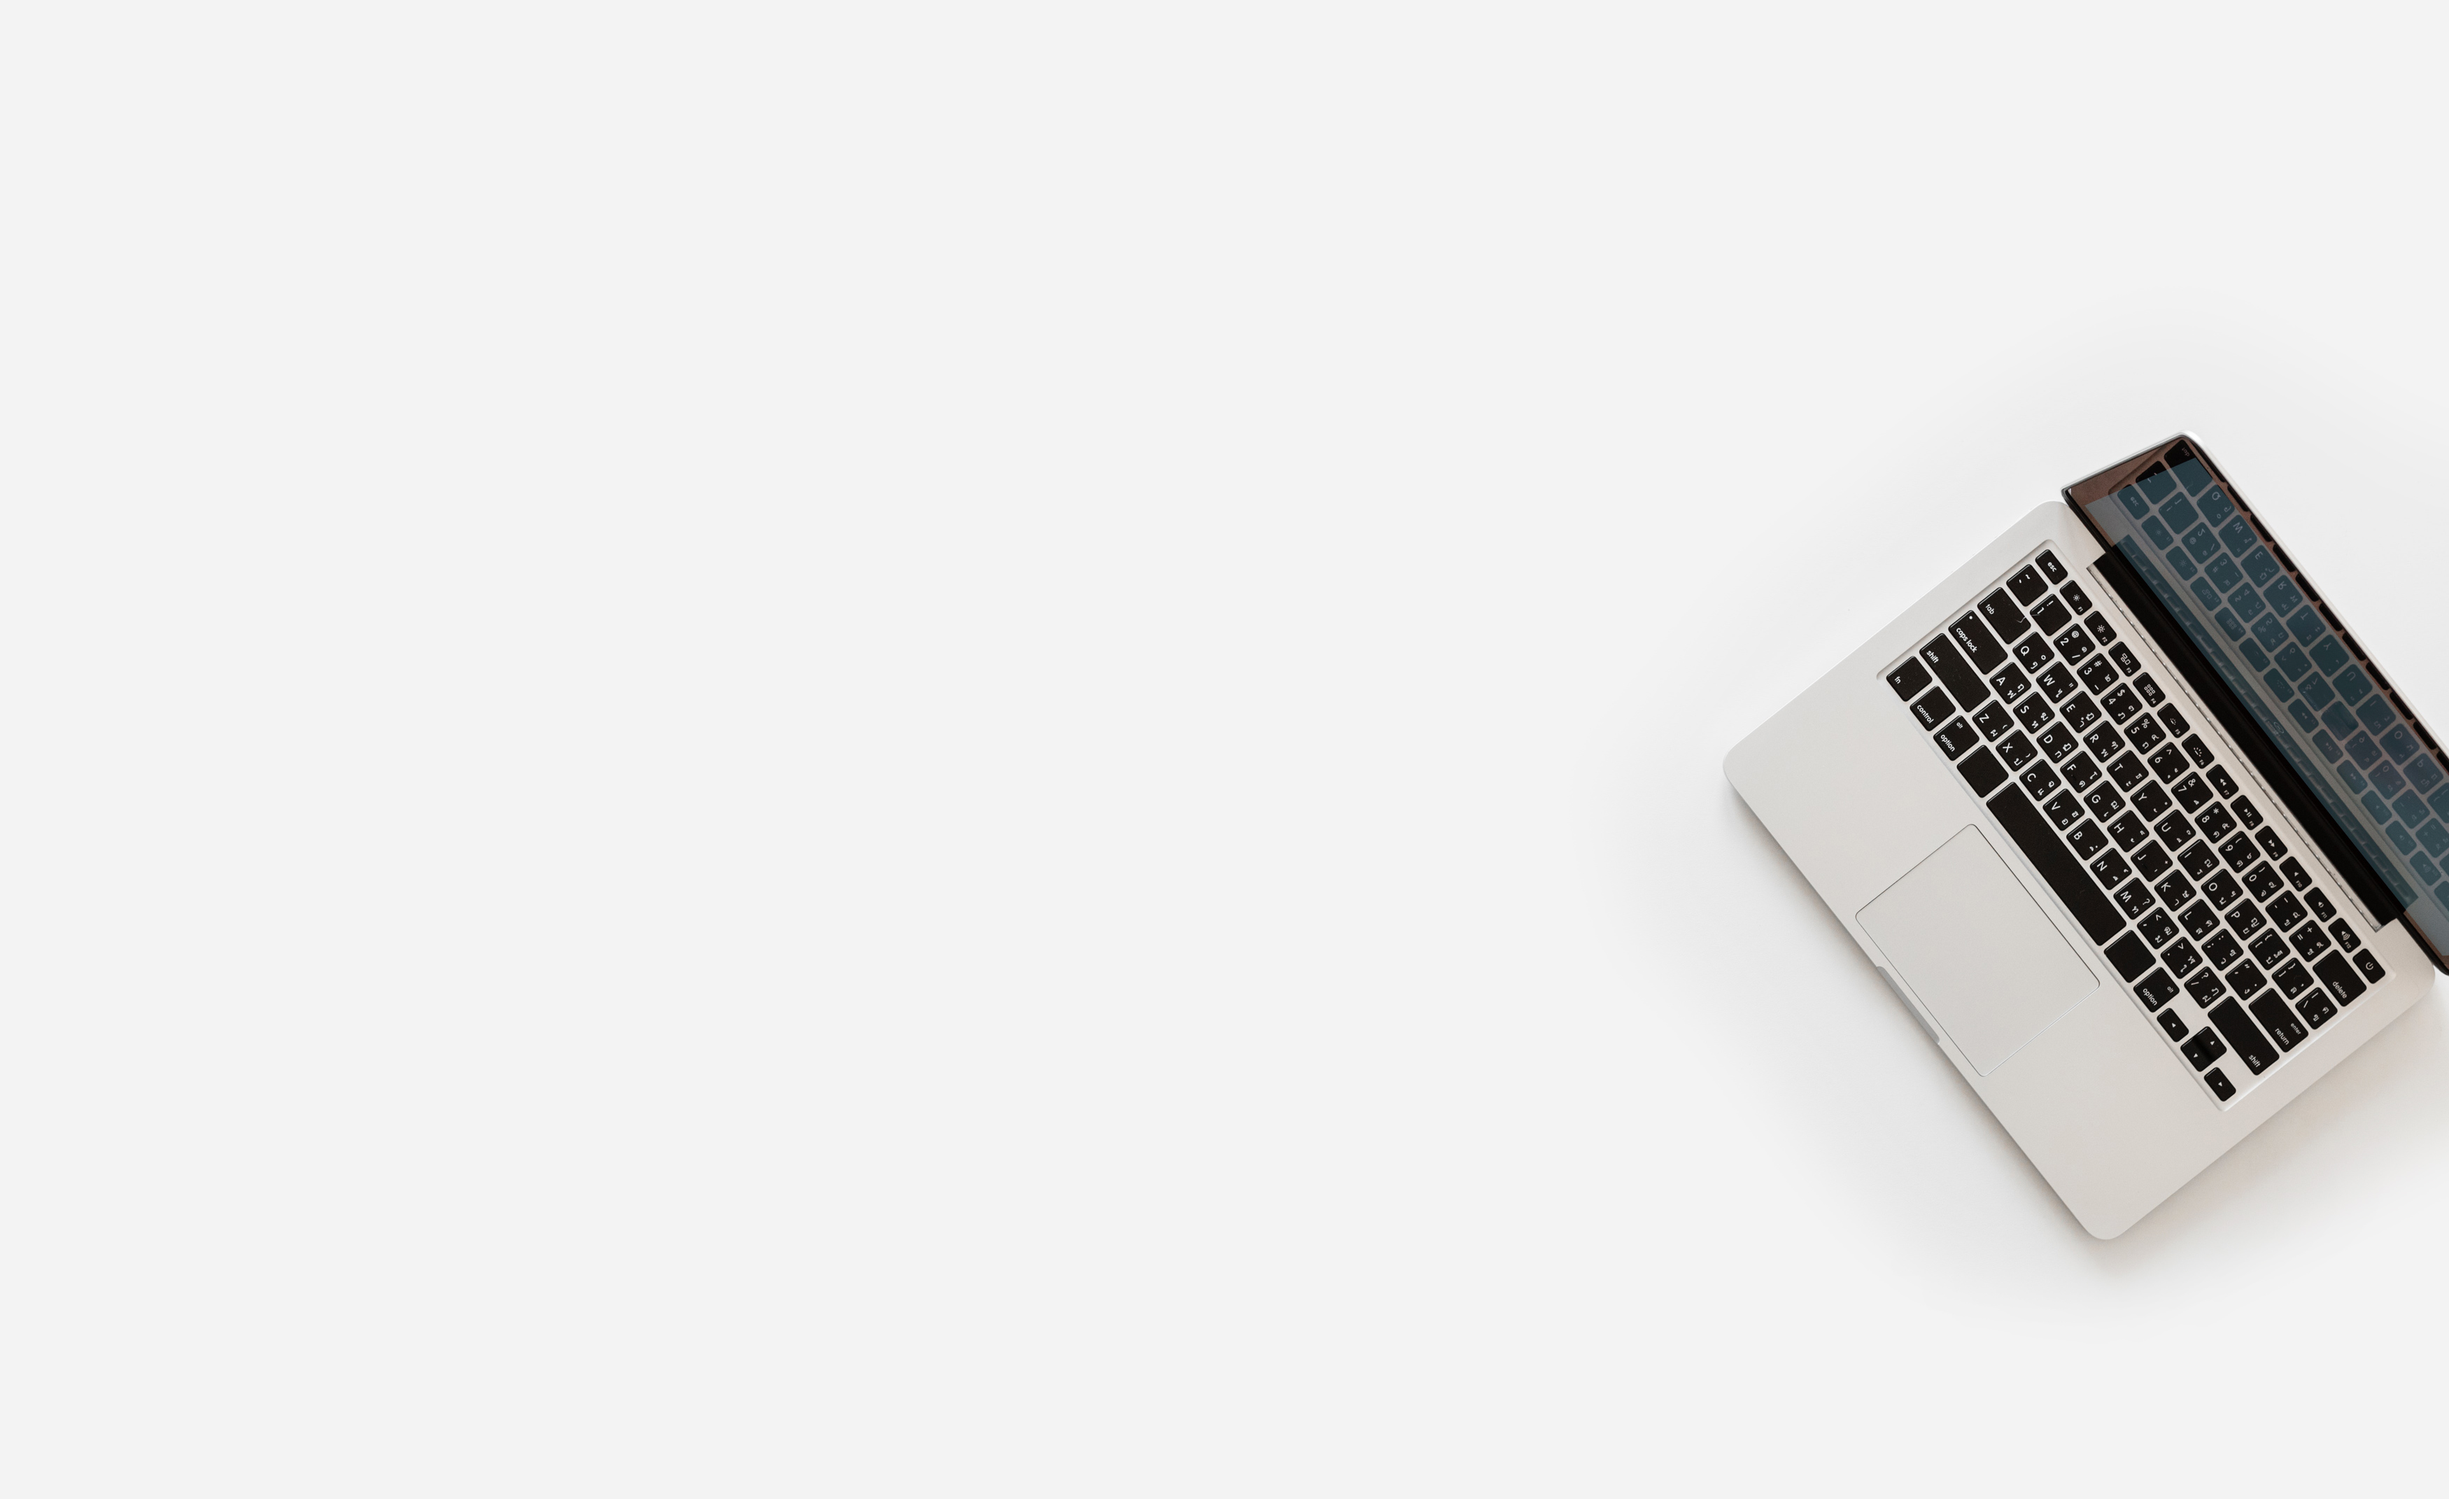
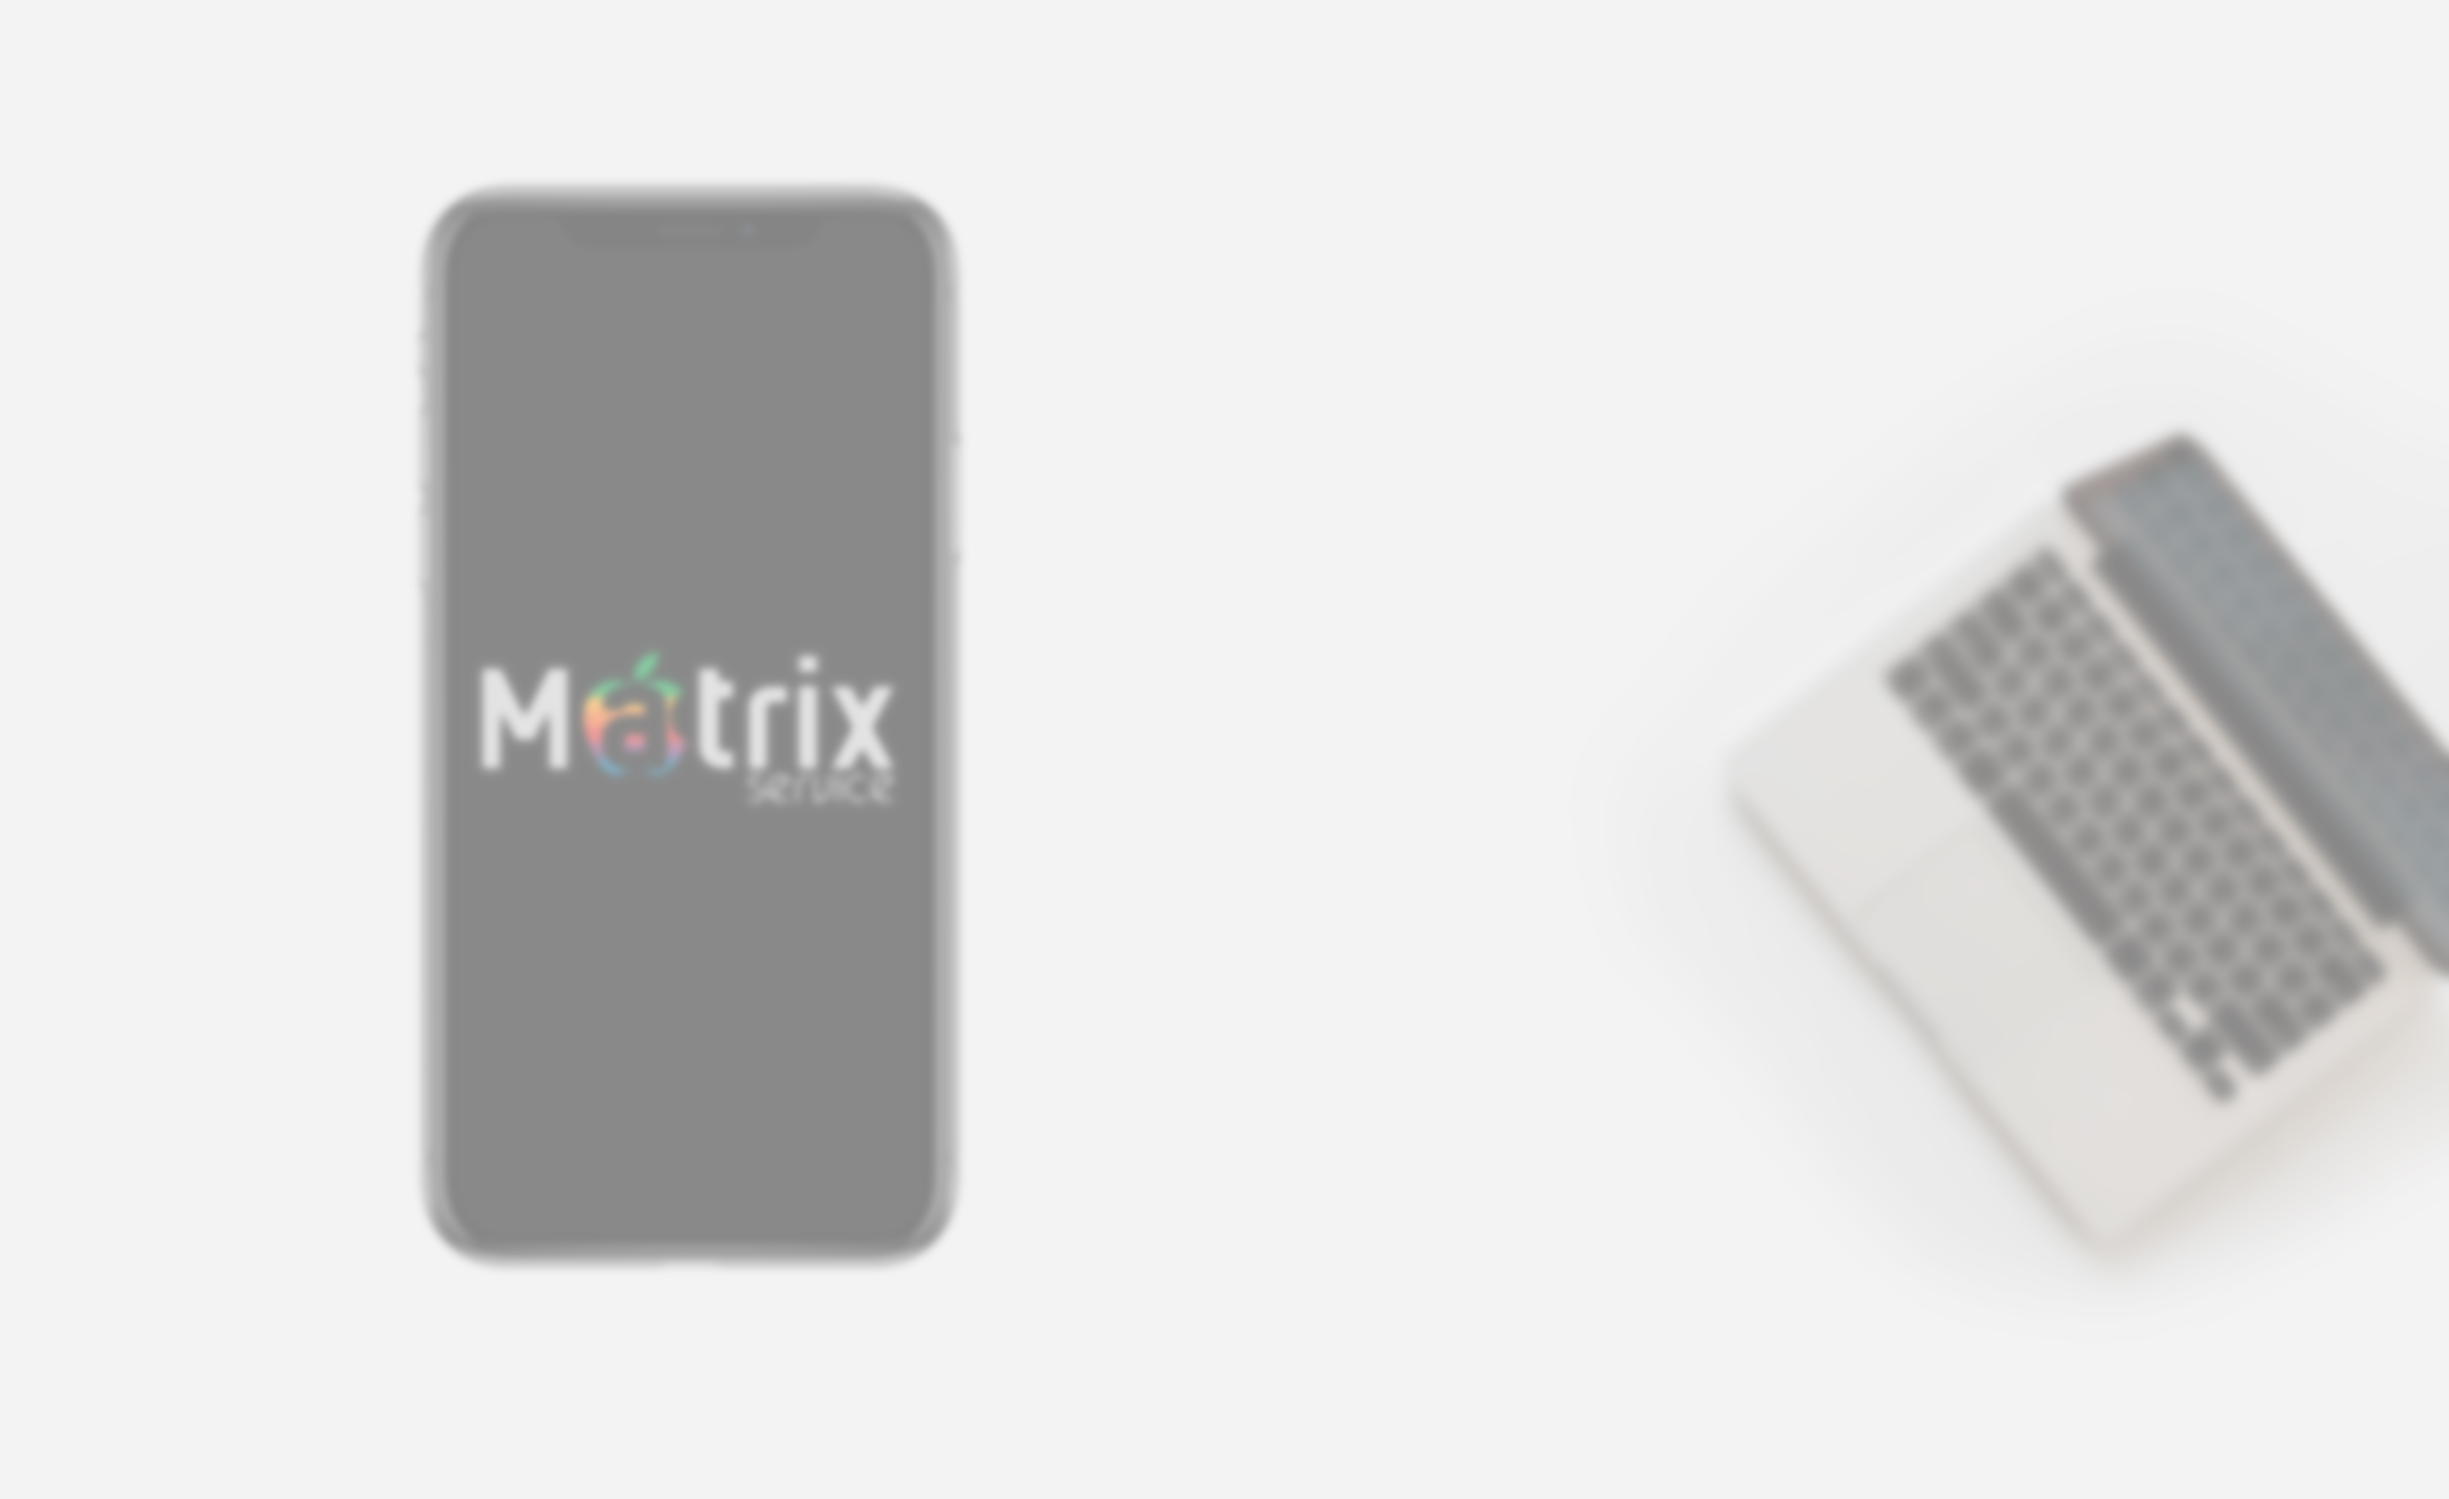
matrix

diff --git a/matrixservice/index.html b/matrixservice/index.html
@@ -63,137 +63,130 @@
 		<!-- Parralax -->
 
 		<div id="hero-section" style="z-index: 0;">
-			<div>
-				<img src="img/svag/bg3().jpg" style="min-height: 50%" alt="">
-				<div class="uk-position-center"><img src="img/svag/mylogo_small.png" style="max-width: 70%" alt=""></div>
+			<div class="parallax">
+				<img src="img/svag/mylogo_small.png" class="uk-position-center" width="50%" alt="">
 			</div>
-			<!-- <div class="uk-height-large uk-background-cover uk-light uk-flex" uk-parallax="bgy: -200" style="background-image: url('img/svag/bg3.jpg');">
-				<div class="img__header">
-					<img src="img/svag/mylogo_small.png" width="100%" >
-				</div>
-			</div> -->
-
 		</div>
 	</header>
-<!-- End Header -->
+	<!-- End Header -->
 
 
 
-<!-- Screen -->
-<section id="screen__id" style="padding: 20px 0 70px 0;">
-	<div class="container" style=" z-index: 1">
-		<div class="row">
-			<h2 style="text-align: center;">Замена стекла на iPhone</h2>
-			<div class="col-xs-12 col-sm-4 col-md-4 col-lg-4" uk-scrollspy="cls: uk-animation-slide-left; repeat: true">
+	<!-- Screen -->
+	<section id="screen__id" style="padding: 20px 0 70px 0; z-index: 1">
+		<div class="container">
+			<div class="row">
+				<h2 style="text-align: center; padding-top: 40px;">Замена стекла на iPhone</h2>
+				<div class="col-xs-12 col-sm-4 col-md-4 col-lg-4" uk-scrollspy="cls: uk-animation-slide-left; repeat: true">
 
-				<div class="text__center">
-					<a class="" href="#contact__id">
-						<h3>iPhone 5/5s/5c</h3>
-						<p>1200 рублей</p>
-					</a>
-				</div>
-
-				<div class="text__center">
-					<a class="" href="#contact__id">
-						<h3>iPhone 6</h3>
-						<p>1300 рублей</p>
-					</a>
-				</div>
-
-				<div class="text__center">
-					<a class="" href="#contact__id">
-						<h3>iPhone 6 plus</h3>
-						<p>1600 рублей</p>
-					</a>
-				</div>
-
-				<div class="text__center">
-					<a class="" href="#contact__id">
-						<h3>iPhone 6s</h3>
-						<p>2000 рублей</p>
-					</a>
-				</div>
-
-				<div class="text__center">
-					<a class="" href="#contact__id">
-						<h3>iPhone 6s plus</h3>
-						<p>2400 рублей</p>
-					</a>
-				</div>
-
-			</div>
-
-			<div class="col-xs-12 col-sm-4 col-md-4 col-lg-4" uk-scrollspy="cls: uk-animation-fade; repeat: true">
-				<center>
-					<div class="img__container uk-card uk-card-default uk-card-body">
-						<img src="img/svag/IphoneX-glass.png" style="text-align: center;"  alt="">
+					<div class="text__center">
+						<a class="" href="#contact__id">
+							<h3>iPhone 5/5s/5c</h3>
+							<p>1200 рублей</p>
+						</a>
 					</div>
-				</center>
+
+					<div class="text__center">
+						<a class="" href="#contact__id">
+							<h3>iPhone 6</h3>
+							<p>1300 рублей</p>
+						</a>
+					</div>
+
+					<div class="text__center">
+						<a class="" href="#contact__id">
+							<h3>iPhone 6 plus</h3>
+							<p>1600 рублей</p>
+						</a>
+					</div>
+
+					<div class="text__center">
+						<a class="" href="#contact__id">
+							<h3>iPhone 6s</h3>
+							<p>2000 рублей</p>
+						</a>
+					</div>
+
+					<div class="text__center">
+						<a class="" href="#contact__id">
+							<h3>iPhone 6s plus</h3>
+							<p>2400 рублей</p>
+						</a>
+					</div>
+
+				</div>
+
+				<div class="col-xs-12 col-sm-4 col-md-4 col-lg-4" uk-scrollspy="cls: uk-animation-fade; repeat: true">
+					<center>
+						<div class="img__container uk-card uk-card-default uk-card-body">
+							<img src="img/svag/IphoneX-glass.png" style="text-align: center;"  alt="">
+						</div>
+					</center>
+				</div>
+
+				<div class="col-xs-12 col-sm-4 col-md-4 col-lg-4" uk-scrollspy="cls: uk-animation-slide-right; repeat: true">
+
+					<div class="text__center">
+						<a class="" href="#end">
+							<h3>iPhone 5/5s/5c</h3>
+							<p>1200 рублей</p>
+						</a>
+					</div>
+
+					<div class="text__center">
+						<a class="" href="#end">
+							<h3>iPhone 6</h3>
+							<p>1300 рублей</p>
+						</a>
+					</div>
+
+					<div class="text__center">
+						<a class="" href="#end">
+							<h3>iPhone 6 plus</h3>
+							<p>1600 рублей</p>
+						</a>
+					</div>
+
+					<div class="text__center">
+						<a class="" href="#end">
+							<h3>iPhone 6s</h3>
+							<p>2000 рублей</p>
+						</a>
+					</div>
+					<div class="text__center">
+						<a class="" href="#end">
+							<h3>iPhone 6s plus</h3>
+							<p>2400 рублей</p>
+						</a>
+					</div>
+				</div>
+			</div>
+		</section>
+
+
+
+
+		<section id="section01">
+			<div id="heading">
+				<center><img src="img/svag/dev.jpg" width="50%" alt=""></center>
+			</div>
+		</section>
+
+		<section id="section02">
+			<div id="heading">
+				<center><img src="img/svag/dev.jpg" width="50%" alt=""></center>
+			</div>
+		</section>
+
+		<section id="section03">
+			<div id="heading">
+				<center><img src="img/svag/dev.jpg" width="50%" alt=""></center>
 			</div>
 
-			<div class="col-xs-12 col-sm-4 col-md-4 col-lg-4" uk-scrollspy="cls: uk-animation-slide-right; repeat: true">
+			<script src="js/jquery-3.3.1.min.js"></script>
+			<script  src="js/uikit.js"></script>
+			<script  src="js/uikit-icons.js"></script>
+			<script  src="js/index.js"></script>
+		</body>
 
-				<div class="text__center">
-					<a class="" href="#end">
-						<h3>iPhone 5/5s/5c</h3>
-						<p>1200 рублей</p>
-					</a>
-				</div>
-
-				<div class="text__center">
-					<a class="" href="#end">
-						<h3>iPhone 6</h3>
-						<p>1300 рублей</p>
-					</a>
-				</div>
-
-				<div class="text__center">
-					<a class="" href="#end">
-						<h3>iPhone 6 plus</h3>
-						<p>1600 рублей</p>
-					</a>
-				</div>
-
-				<div class="text__center">
-					<a class="" href="#end">
-						<h3>iPhone 6s</h3>
-						<p>2000 рублей</p>
-					</a>
-				</div>
-				<div class="text__center">
-					<a class="" href="#end">
-						<h3>iPhone 6s plus</h3>
-						<p>2400 рублей</p>
-					</a>
-				</div>
-			</div>
-		</div>
-	</section>
-
-
-
-
-	<section id="section01">
-		<div id="heading">
-			<img src="img/svag/laptop.png" alt="">
-		</div>
-	</section>
-
-	<section id="section02">
-		<div id="heading">
-			<img src="img/svag/laptop.png" alt="">
-		</div>
-	</section>
-
-	<section id="section03">
-		<div id="heading">
-			<img src="img/svag/laptop.png" alt="">
-		</div>
-
-		<script src="js/jquery-3.3.1.min.js"></script>
-		<script  src="js/uikit.js"></script>
-		<script  src="js/uikit-icons.js"></script>
-		<script  src="js/index.js"></script>
-	</body>
-
-	</html>
+		</html>

diff --git a/matrixservice/css/mainstyle.css b/matrixservice/css/mainstyle.css
@@ -9,6 +9,9 @@ div{
 	-o-user-select: none;
 	user-select: none;
 }
+body, html {
+	height: 100%;
+}
 body{
 	-webkit-overflow-scrolling: touch
 	-webkit-text-size-adjust: none
@@ -23,6 +26,25 @@ a, h1, h2, h3, h4, li, ul, p{
 	text-decoration: none;
 	list-style: none;
 	line-height: 1.2em;
+}
+
+/*Parralax*/
+.parallax { 
+	background-image: url("../img/svag/bg3().jpg");
+	position: absolute;
+	height: 100%;
+	width: 100%;
+	background-attachment: fixed;
+	background-position: right center;
+	background-repeat: no-repeat;
+	background-size: cover;
+}
+.logo__parralax{
+	padding: 15%;
+	display: table;
+	width: -moz-max-content;
+	max-width: 100%;
+	box-sizing: border-box;
 }
 
 .my__container{
